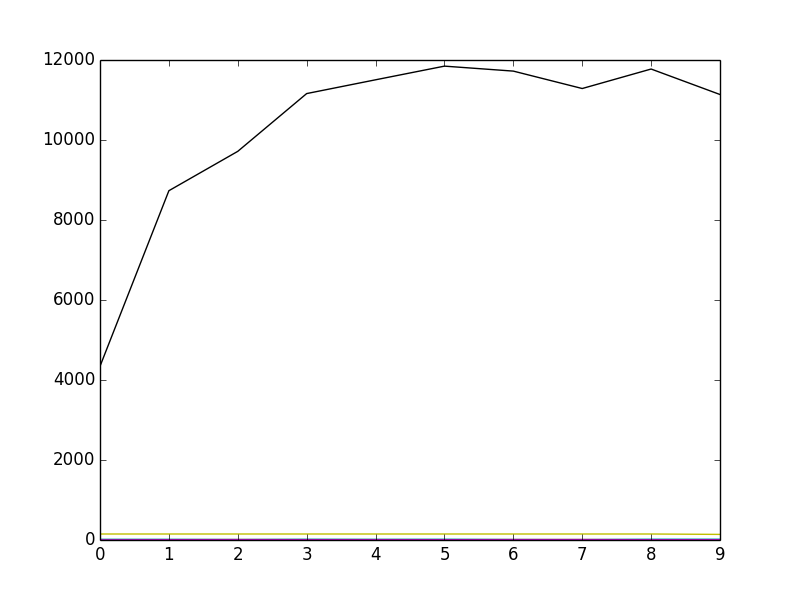
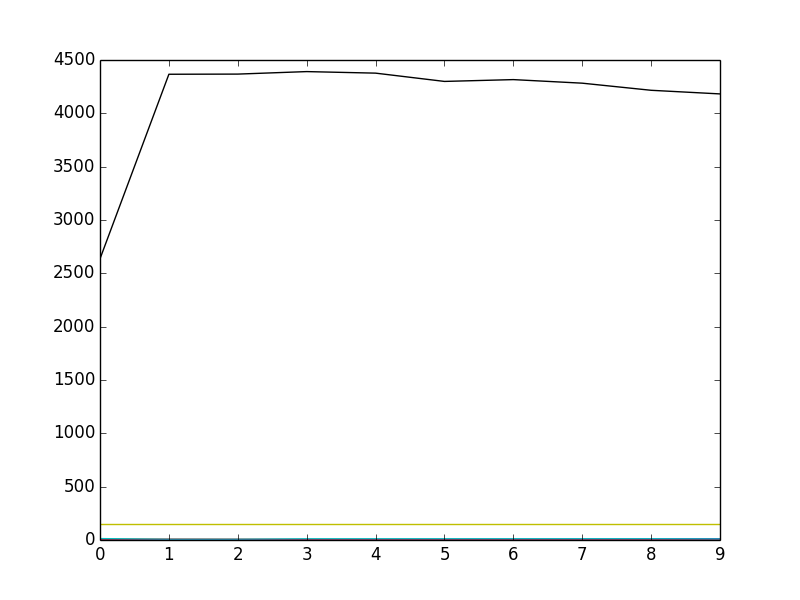
okay

diff --git a/Simu0619.py b/Simu0619.py
@@ -64,12 +64,12 @@ Yeild = 100
 #CHANGABLE PARAMETERS 
 m = 0.7 
 Theta = 45.0
-number = 6
-n = 19
-D = 10  #Diameter of Coil[mm]
-d = 1.2  #Diameter of Wire[mm]
+number = 2 
+n = 11
+D = 5.0  #Diameter of Coil[mm]
+d = 0.9  #Diameter of Wire[mm]
 solid_height = d*n ##solid height of SMA spring[mm]
-k = 5.8 
+k = 0.8 
 X0 = 150 
 X0_SMA = solid_height 
 #X0_SMA = 45             #Natural Height of SMA[mm]
@@ -95,12 +95,12 @@ delta_f = A*F_f + np.pi*D**2*n/d*gamma_l   #Unit of delta_f is delta
 #xi = 0.5*np.cos(np.pi/(tau_s-tau_f)*(tau-tau_f)) + 0.5
 #F_ = np.pi*d**3/8/D*Gm*gamma_l*xi 
 #F_ME = (X0-H-X0_SMA)/(A+1/k)
-#F_ME = k*X0-k*delta_ME 
+F_ME = k*X0-k*delta_ME 
 F_AE = (X0-X0_SMA)/(B+1/k)
-#delta_ME = -F_ME/k + X0 #Unit of delta_ME is X
+delta_ME = -F_ME/k + X0 #Unit of delta_ME is X
 delta_AE = -F_AE/k + X0 #Unit of delta_AE is X
 strain_a = (delta_AE-X0_SMA)/X0_SMA*100 #Strain of Austenite SMA
-#strain_m = (delta_ME-X0_SMA)/X0_SMA*100 #Strain of Martensite SMA
+strain_m = (delta_ME-X0_SMA)/X0_SMA*100 #Strain of Martensite SMA
 strain_bi = (X0-delta_AE)/X0*100        #Strain of Bias Spring
 L_max_a = np.pi*D*n      #Maximum Length of Austenite
 L_max_m = np.pi*D*n*1.06 #Maximum Length of Martensite
@@ -130,7 +130,7 @@ print ("delta_s = %f[mm], delta_f = %f[mm]" %(delta_s,delta_f))
 print("F_ME=%f, F_AE=%f" %(F_ME,F_AE))
 print("delta_ME=%f, delta_AE=%f, deformation=%f[mm]" %(delta_ME,delta_AE,\
 delta_ME-delta_AE))
-#print ("Strain_a:%f[per], Strain_m:%f[per]" %(strain_a, strain_m))
+print ("Strain_a:%f[per], Strain_m:%f[per]" %(strain_a, strain_m))
 print ("L_max_a:%f[mm], L_max_m:%f[mm]" %(L_max_a, L_max_m))
 print ("Released energy: %f[mJ], Required energy:%f[J]" %(E,Q))
 print ("Distance_X=%f[mm], Distance_Y=%f[mm]" %(distance_X, distance_Y))

diff --git a/Optimization.py b/Optimization.py
@@ -166,6 +166,11 @@ class Optimize():
 		#Constraint Conditions
 		self.Ltc_max = 200 #Maximum of Latch
 		self.Bat_max = 4400   #Maximum of Battery
+		self.Brho = 7.85*10**(-3) #Density of Bias Spring
+		self.BG = 78500 #Sheer young modulus of Bias spring
+		self.BL = 30 #Natural length of Bias spring
+		self.BD = 12 #Diameter of Bias spring coil
+		self.Na = 25 #Diameter of Bias spring coil
 	
 	def CheckCondition(self):
 		Latch = -self.k*(self.dl_A-self.L) < self.Ltc_max
@@ -173,7 +178,14 @@ class Optimize():
 		SpringIndex = 5 < self.D/self.d < 12
 		Yelding = self.dl_A < self.dl_Ay and self.dl_M < self.dl_My
 		MaxLength = np.pi*self.D*self.n > self.L
-		return Latch and Battery and SpringIndex and Yelding and MaxLength
+		self.Bd = np.power(8*self.k*self.BD**3*self.Na/self.BG, 1.0/5.0)
+		BiasSpringMass = self.Brho*self.BD*self.Bd*self.Na*np.pi**2
+		BiasSpringMASS = BiasSpringMass <= 30
+		print "Bd={0}".format(self.Bd)
+		print "BiasSpringMass={0}".format(BiasSpringMass)
+		print "self.Na={0}".format(self.Na)
+		print "self.Bd*self.Na={0}".format(self.Bd*self.Na)
+		return Latch and Battery and SpringIndex and Yelding and MaxLength and BiasSpringMASS
 
 if __name__ == '__main__':
 	print "hello"
